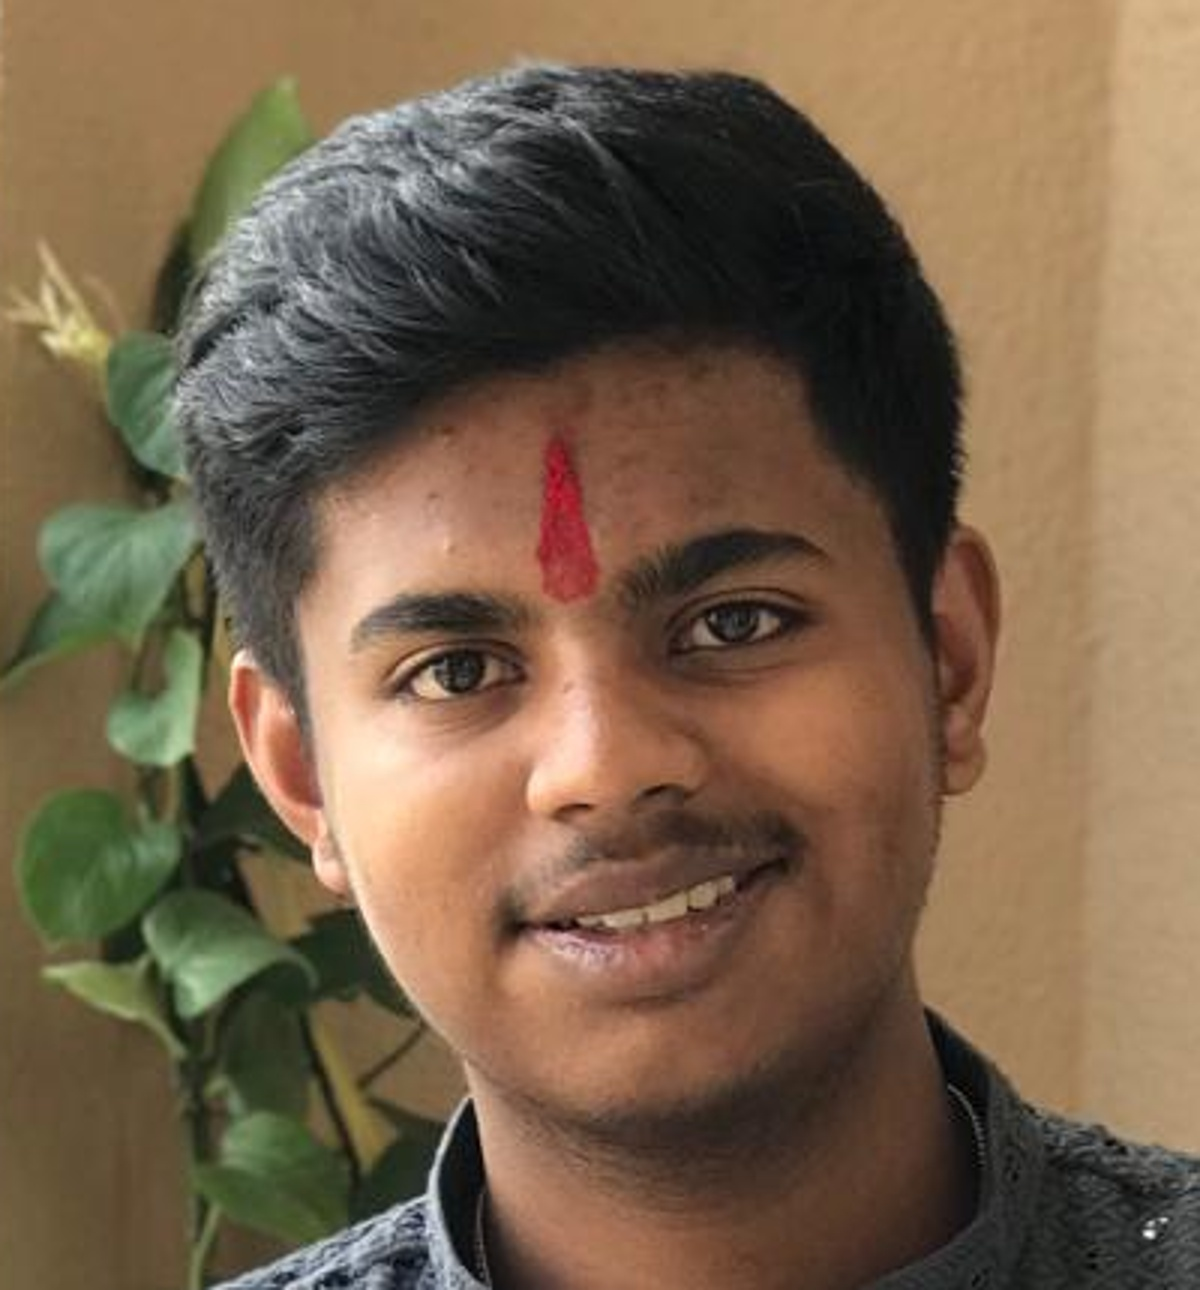
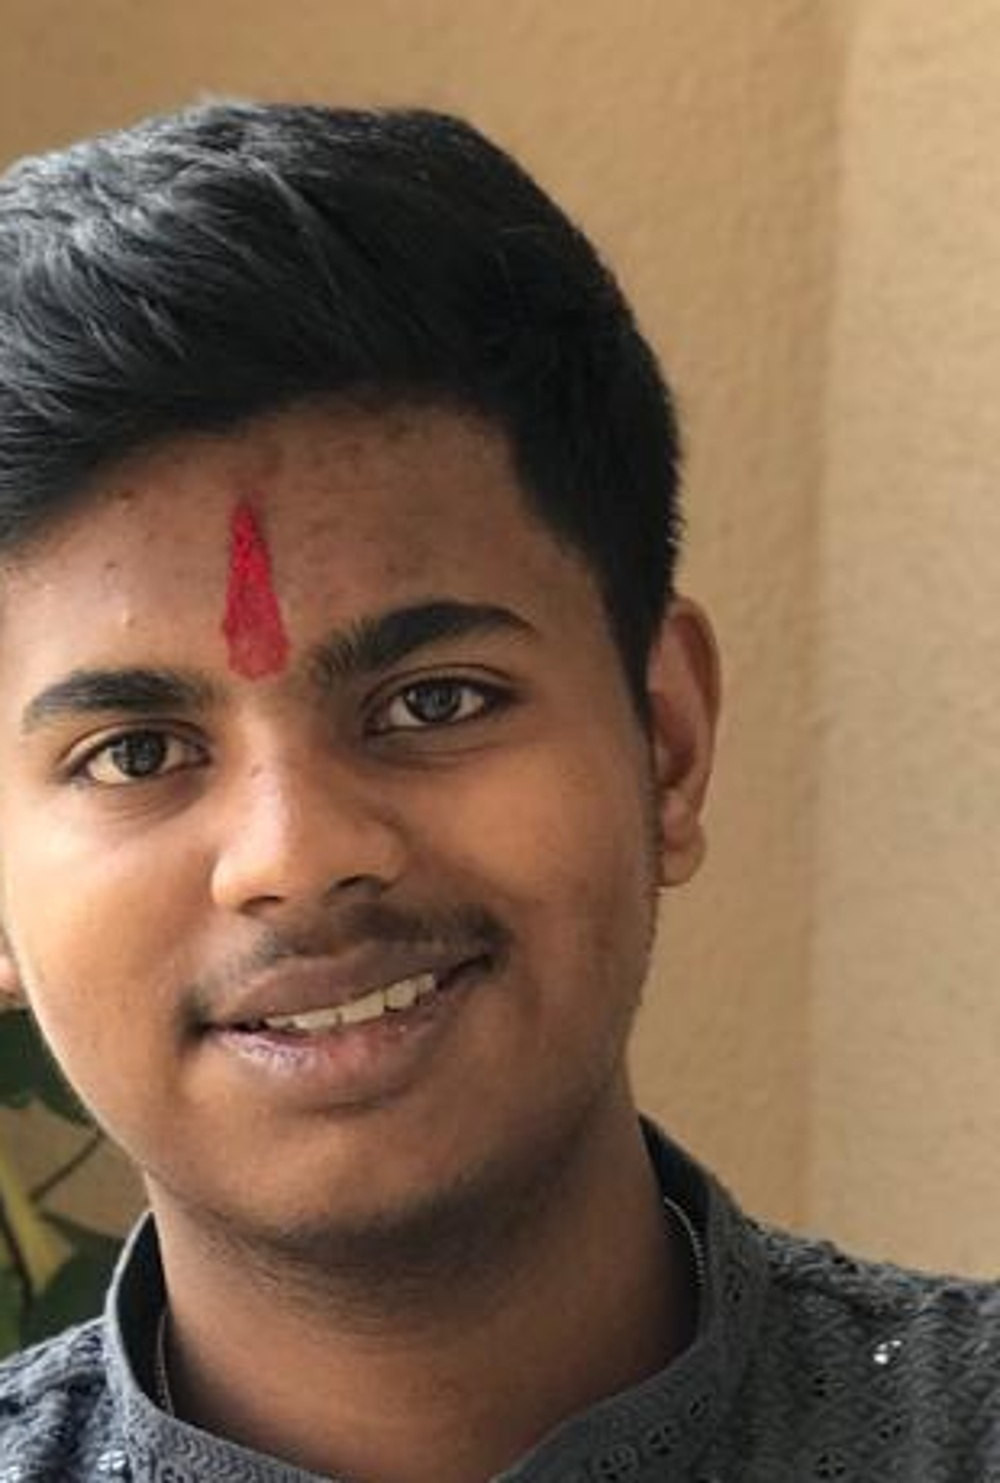
2nd comnit

diff --git a/scripts/generate_portrait.py b/scripts/generate_portrait.py
@@ -18,7 +18,7 @@ BG_COLOR = "#0d1117"
 
 
 def remove_background(img: Image.Image) -> Image.Image:
-    """Best-effort background removal. Falls back to no-op if rembg unavailable."""
+    """Background removal. Prefers rembg; falls back to OpenCV GrabCut (no model download)."""
     try:
         from rembg import remove
         import io
@@ -26,13 +26,36 @@ def remove_background(img: Image.Image) -> Image.Image:
         img.save(buf, format="PNG")
         out = remove(buf.getvalue())
         result = Image.open(io.BytesIO(out)).convert("RGBA")
-        # composite onto white
         white = Image.new("RGBA", result.size, (255, 255, 255, 255))
         white.paste(result, mask=result.split()[3])
         return white.convert("RGB")
     except ImportError:
-        print("warning: rembg not installed, skipping background removal", file=sys.stderr)
-        return img.convert("RGB")
+        print("info: rembg not available, using GrabCut fallback", file=sys.stderr)
+        return grabcut_background(img)
+
+
+def grabcut_background(img: Image.Image) -> Image.Image:
+    """Soft elliptical vignette mask. Reliable for a centered head-and-shoulders
+    crop without depending on background texture (GrabCut fails on textured walls
+    or foliage near the subject)."""
+    arr = np.array(img.convert("RGB")).astype(np.float32)
+    h, w = arr.shape[:2]
+
+    cy, cx = h * 0.44, w * 0.5   # face/shoulders center, slightly above vertical middle
+    ry, rx = h * 0.62, w * 0.56  # ellipse radii - generous enough to keep shoulders
+
+    yy, xx = np.mgrid[0:h, 0:w]
+    dist = ((xx - cx) / rx) ** 2 + ((yy - cy) / ry) ** 2
+
+    # smooth falloff: 1 inside, 0 outside, soft transition band
+    inner, outer = 0.75, 1.15
+    mask = np.clip((outer - np.sqrt(dist)) / (outer - inner), 0, 1)
+    mask = cv2.GaussianBlur(mask.astype(np.float32), (31, 31), 0)
+
+    white_bg = np.full_like(arr, 255.0)
+    mask3 = mask[:, :, None]
+    out = arr * mask3 + white_bg * (1 - mask3)
+    return Image.fromarray(out.astype(np.uint8))
 
 
 def process_image(path: str, cols: int = COLS):
